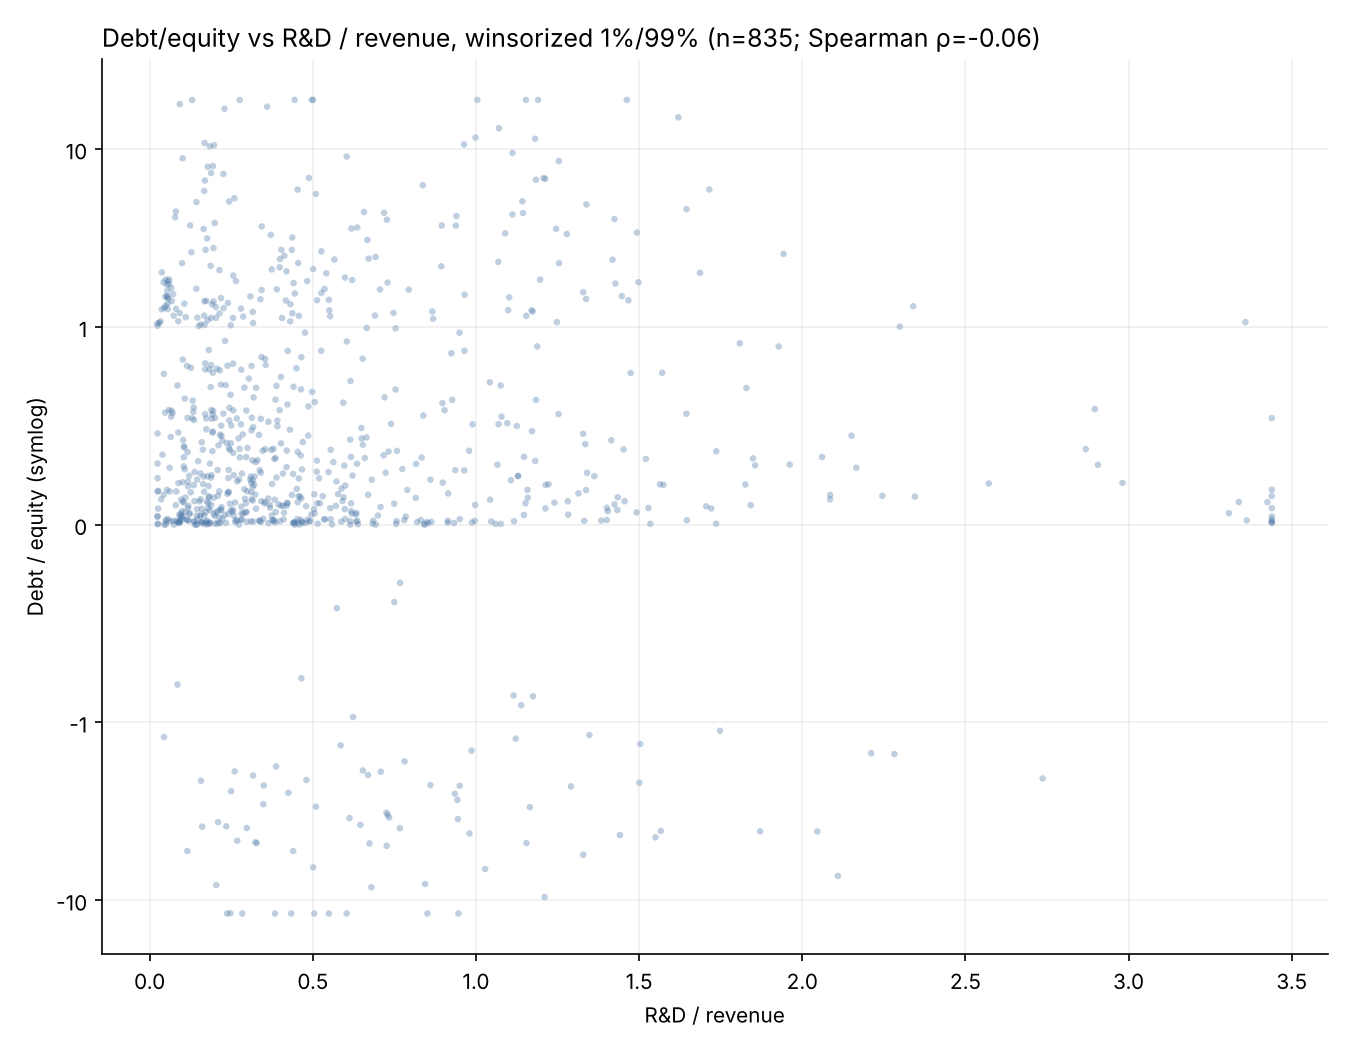
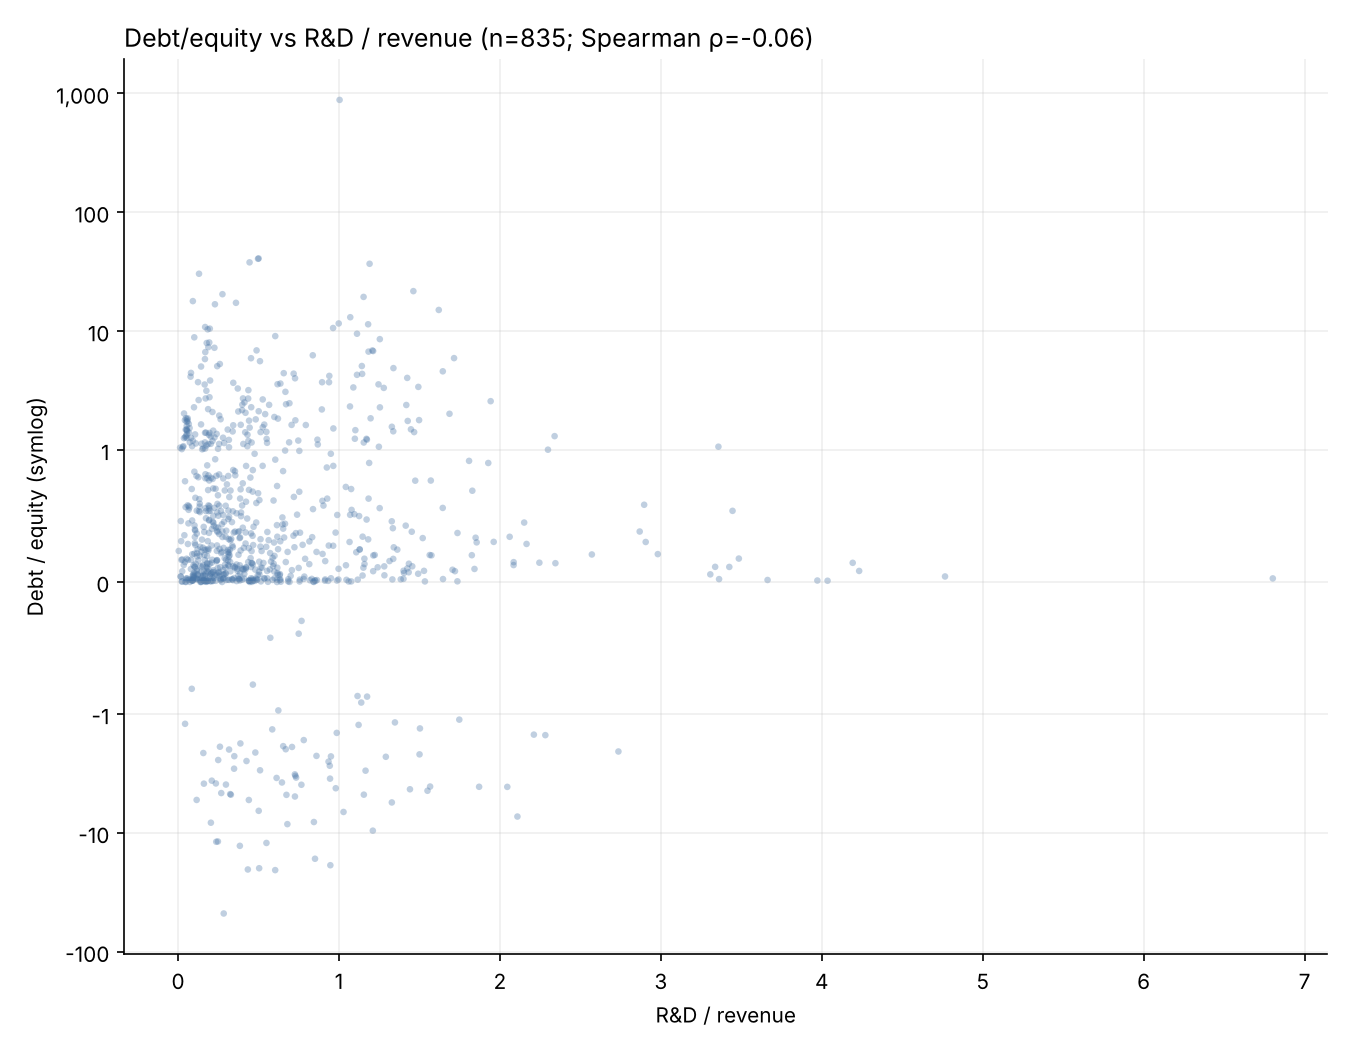
Remove winsorization by default (WINSORIZE flag kept)
Claude-Session: https://claude.ai/code/session_017of5yU3bfrpCMXsVcsfLUs

diff --git a/src/make_charts.py b/src/make_charts.py
@@ -27,14 +27,17 @@ out.mkdir(parents=True, exist_ok=True)
 
 d = pd.read_excel(src)
 
-# Winsorize MVE, R&D/revenue and debt/equity at the 1st/99th percentile
-# (pooled over all company-years); values beyond the cutoffs are set to the cutoffs.
+# Optional winsorizing of MVE, R&D/revenue and debt/equity at the pooled 1st/99th
+# percentile (values beyond the cutoffs are set to the cutoffs). Off by default.
+WINSORIZE = False
 LOWER, UPPER = 0.01, 0.99
-for col in ("mve", "xrd_revt", "debt_equity"):
-    lo, hi = d[col].quantile([LOWER, UPPER])
-    n_lo, n_hi = (d[col] < lo).sum(), (d[col] > hi).sum()
-    d[col] = d[col].clip(lo, hi)
-    print(f"winsorized {col}: [{lo:.6g}, {hi:.6g}]  ({n_lo} raised, {n_hi} lowered)")
+TAG = ", winsorized 1%/99%" if WINSORIZE else ""
+if WINSORIZE:
+    for col in ("mve", "xrd_revt", "debt_equity"):
+        lo, hi = d[col].quantile([LOWER, UPPER])
+        n_lo, n_hi = (d[col] < lo).sum(), (d[col] > hi).sum()
+        d[col] = d[col].clip(lo, hi)
+        print(f"winsorized {col}: [{lo:.6g}, {hi:.6g}]  ({n_lo} raised, {n_hi} lowered)")
 
 d["mve"] = d["mve"] * 1e6  # source MVE is in $ millions; ratios are unitless
 
@@ -56,7 +59,7 @@ METRICS = [
     ("debt_equity", "Debt / equity", "symlog", 1),
 ]
 
-# --- line graphs (winsorized data; log/symlog scales still handle the wide spread)
+# --- line graphs (log/symlog scales handle the wide spread)
 fig, axs = plt.subplots(3, 1, figsize=(11, 13))
 for ax, (c, label, scale, linthresh) in zip(axs, METRICS):
     for _, g in d.groupby("tic"):
@@ -69,7 +72,7 @@ for ax, (c, label, scale, linthresh) in zip(axs, METRICS):
     ax.set_yscale(scale, **({"linthresh": linthresh} if linthresh else {}))
     if scale != "linear":
         ax.yaxis.set_major_formatter(mfmt if c == "mve" else fmt)
-    ax.set_title(f"{label} by company ({scale} scale, winsorized 1%/99%)", loc="left")
+    ax.set_title(f"{label} by company ({scale} scale{TAG})", loc="left")
     ax.set_xlabel("Fiscal year")
     ax.set_ylabel(label)
     ax.legend(loc="upper left")
@@ -94,7 +97,7 @@ def dot_plot(xcol, xlabel, xscale, xfmt, fname):
     ax.yaxis.set_major_formatter(fmt)
     ax.set_xlabel(xlabel)
     ax.set_ylabel("Debt / equity (symlog)")
-    ax.set_title(f"Debt/equity vs {xlabel.split(' (')[0]}, winsorized 1%/99% "
+    ax.set_title(f"Debt/equity vs {xlabel.split(' (')[0]}{TAG} "
                  f"(n={len(x)}; Spearman ρ={spearman:.2f})", loc="left")
     ax.spines[["top", "right"]].set_visible(False)
     ax.grid(alpha=0.2)

diff --git a/README.md b/README.md
@@ -14,5 +14,5 @@ Optional arguments: `python src/make_charts.py <input.xlsx> <output_dir>`.
 ## Notes
 
 - `data/ValuesFSARatios.xlsx` is the input (835 company-years, 201 companies, revenue ≥ $100M; includes a `revt` revenue column in $ millions, not used by the charts). Its figures are in $ millions; MVE is converted to dollars for display. The R&D/revenue and debt/equity ratios are unitless and plotted as-is.
-- MVE, R&D/revenue and debt/equity are winsorized at the pooled 1st/99th percentile (values beyond the cutoffs are set to the cutoffs; no rows dropped). Cutoffs are printed when the script runs. The median and correlations use the winsorized data. MVE uses a log axis, debt/equity a symmetric-log axis, and R&D/revenue a linear axis.
+- No winsorizing or outlier removal by default. To winsorize MVE, R&D/revenue and debt/equity at the pooled 1st/99th percentile, set `WINSORIZE = True` in `src/make_charts.py` (cutoffs are printed; titles are tagged). MVE uses a log axis, debt/equity a symmetric-log axis, and R&D/revenue a linear axis.
 - Correlations (Spearman and Pearson) are printed to the console and the Spearman value is in each dot plot's title.
